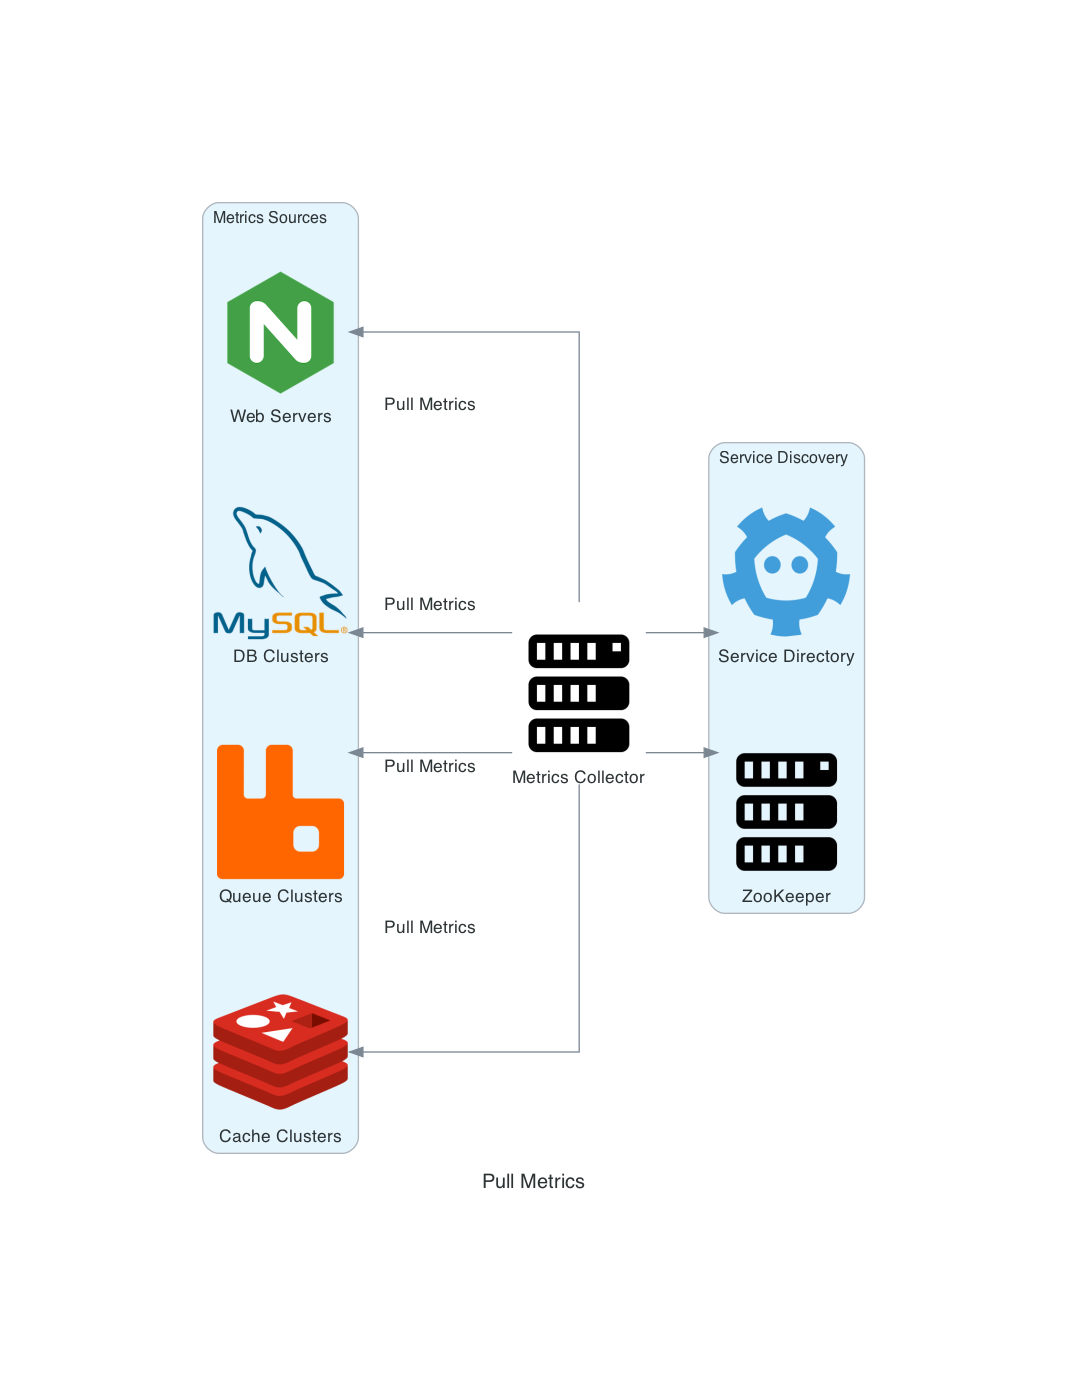
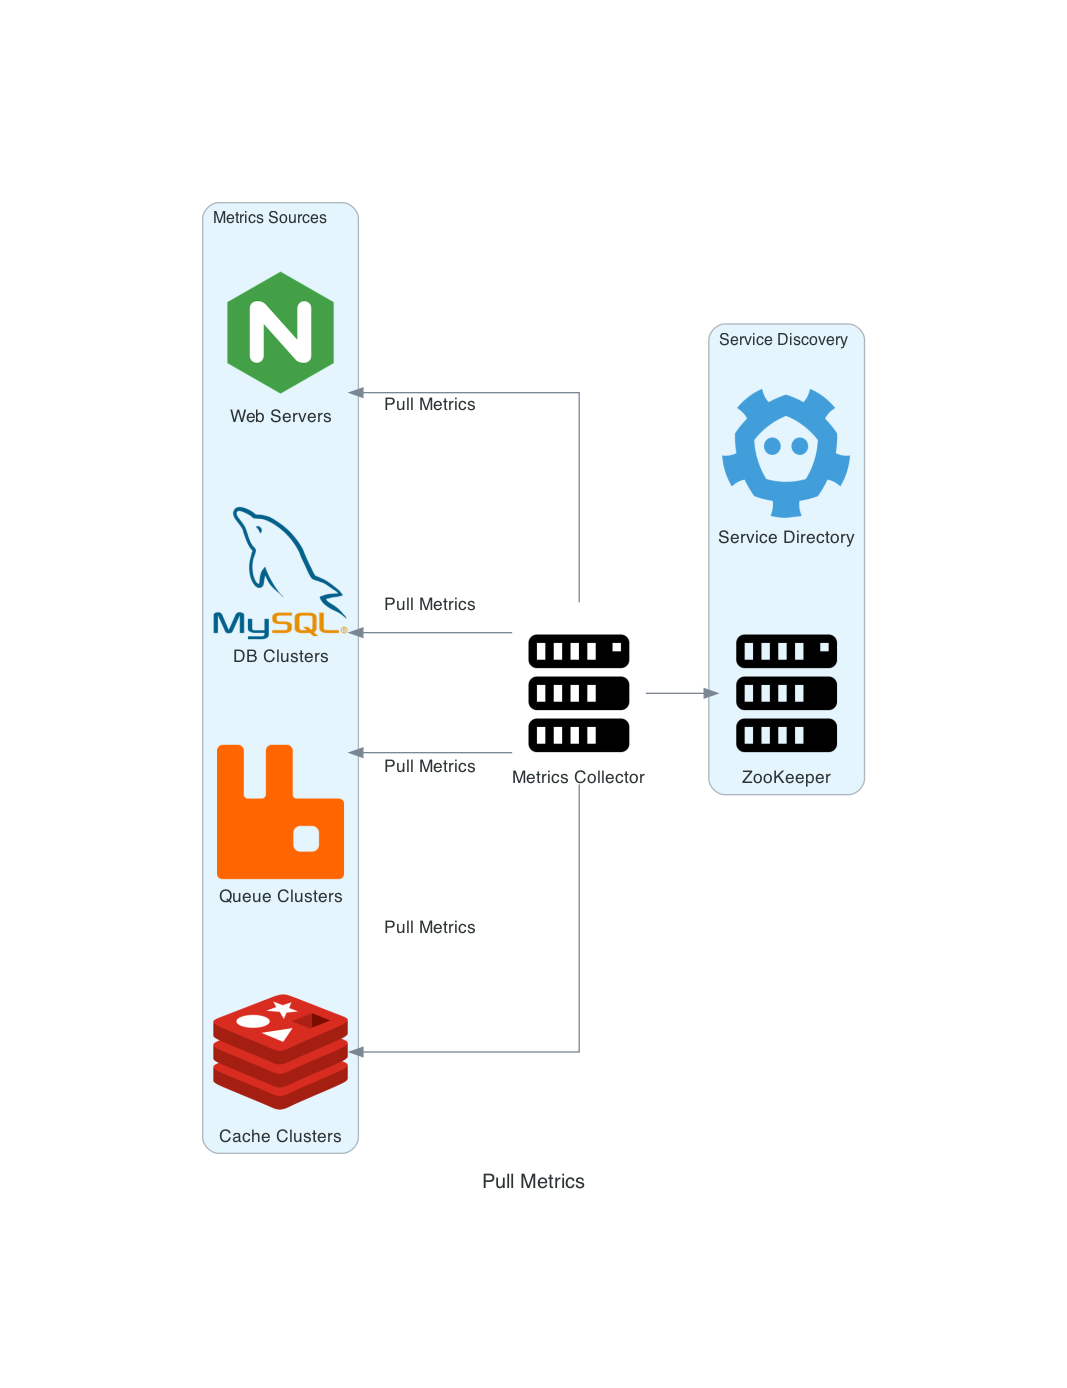
Updated

Changed region(s): [[0.6495, 0.2169, 0.8351, 0.6816]]

diff --git a/designMetricscollector/pullModelMetrics.py b/designMetricscollector/pullModelMetrics.py
@@ -26,6 +26,4 @@ with Diagram("Pull Metrics", show=False):
         service_directory = Etcd("Service Directory")
         zookeeper = Server("ZooKeeper")
 
-    # Metrics Collector Service sending a message to the Service Directory Service
-    metricsCollector >> service_directory
     metricsCollector >> zookeeper
